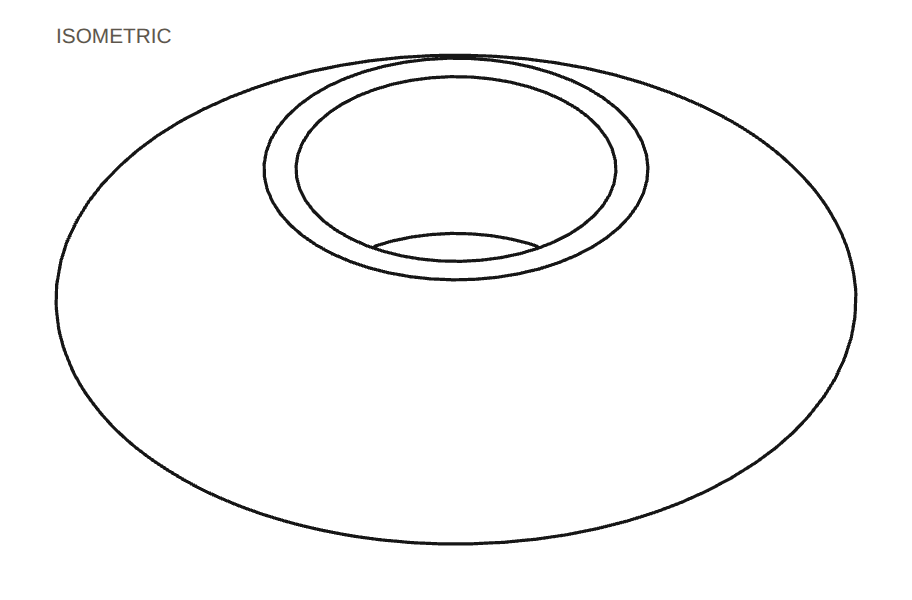
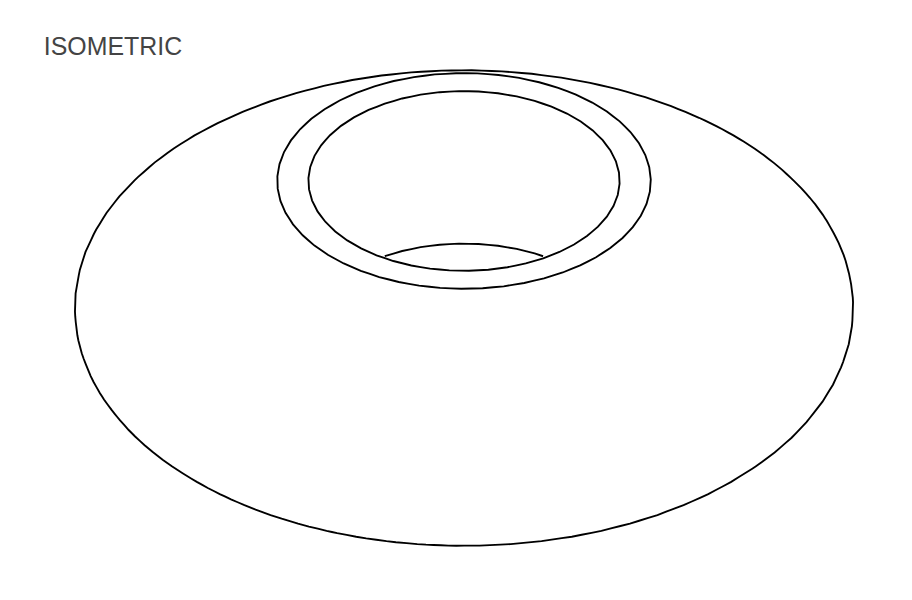
D5 Keep visible outlines when hidden lines are removed
Depth-test each edge from a point nudged toward the camera, and keep a silhouette that sits on the view outline. The cone front and side stay closed, including the bottom line and the rim.

diff --git a/js/drawing/geometry.js b/js/drawing/geometry.js
@@ -188,7 +188,7 @@ function analyticGenerators(model, frame) {
         a: add(add(fit.origin, mul(fit.axis, minAlong)), offset),
         b: add(add(fit.origin, mul(fit.axis, maxAlong)), offset),
         tris: [],
-        kind: 'silhouette',
+        kind: 'generator',
       });
     }
   }
@@ -210,7 +210,10 @@ function boundaryAndSilhouette(model, eye) {
         const agree = found.normal[0] * normal[0] + found.normal[1] * normal[1] + found.normal[2] * normal[2];
         const facing = (found.normal[0] * eye[0] + found.normal[1] * eye[1] + found.normal[2] * eye[2])
           * (normal[0] * eye[0] + normal[1] * eye[1] + normal[2] * eye[2]);
-        if (agree > 0.96 && facing > 0) found.drop = true;
+        if (facing < 0) {
+          found.kind = 'silhouette';
+          found.drop = false;
+        } else if (agree > 0.96 && facing > 0) found.drop = true;
       }
       return;
     }
@@ -257,7 +260,7 @@ function boundaryAndSilhouette(model, eye) {
       addSegment(a, b, entry.tris, silhouette && !boundary ? 'silhouette' : 'edge', normal, face.triIds);
     }
   }
-  return [...merged.values()].filter((segment) => !segment.drop);
+  return [...merged.values()];
 }
 
 function quantKey(p) {
@@ -291,6 +294,65 @@ function subdivide(segment, maxLen) {
     });
   }
   return pieces;
+}
+
+function onOutline(piece, frame, hull) {
+  if (hull.length < 3) return false;
+  const a = project2(piece.a, frame);
+  const b = project2(piece.b, frame);
+  const mid = [(a[0] + b[0]) / 2, (a[1] + b[1]) / 2];
+  return distToHull(a, hull) < 0.55 && distToHull(b, hull) < 0.55 && distToHull(mid, hull) < 0.55;
+}
+
+function project2(point, frame) {
+  return [
+    point[0] * frame.right[0] + point[1] * frame.right[1] + point[2] * frame.right[2],
+    point[0] * frame.up[0] + point[1] * frame.up[1] + point[2] * frame.up[2],
+  ];
+}
+
+function convexHull(points) {
+  const unique = [];
+  const seen = new Set();
+  for (const point of points) {
+    const key = `${Math.round(point[0] * 20)},${Math.round(point[1] * 20)}`;
+    if (seen.has(key)) continue;
+    seen.add(key);
+    unique.push(point);
+  }
+  unique.sort((a, b) => a[0] - b[0] || a[1] - b[1]);
+  if (unique.length < 3) return unique;
+  const turn = (o, a, b) => (a[0] - o[0]) * (b[1] - o[1]) - (a[1] - o[1]) * (b[0] - o[0]);
+  const lower = [];
+  for (const point of unique) {
+    while (lower.length >= 2 && turn(lower[lower.length - 2], lower[lower.length - 1], point) <= 0) lower.pop();
+    lower.push(point);
+  }
+  const upper = [];
+  for (let i = unique.length - 1; i >= 0; i -= 1) {
+    const point = unique[i];
+    while (upper.length >= 2 && turn(upper[upper.length - 2], upper[upper.length - 1], point) <= 0) upper.pop();
+    upper.push(point);
+  }
+  lower.pop();
+  upper.pop();
+  return lower.concat(upper);
+}
+
+function distToHull(point, hull) {
+  let best = Infinity;
+  for (let i = 0; i < hull.length; i += 1) {
+    best = Math.min(best, distToSeg(point, hull[i], hull[(i + 1) % hull.length]));
+  }
+  return best;
+}
+
+function distToSeg(point, a, b) {
+  const dx = b[0] - a[0];
+  const dy = b[1] - a[1];
+  const len = dx * dx + dy * dy || 1;
+  const t = Math.max(0, Math.min(1, ((point[0] - a[0]) * dx + (point[1] - a[1]) * dy) / len));
+  return Math.hypot(point[0] - (a[0] + dx * t), point[1] - (a[1] + dy * t));
 }
 
 function projectFrame(model, frame) {
@@ -353,9 +415,12 @@ function projectFrame(model, frame) {
   }
 
   function hiddenAt(point, ignore) {
+    // Nudge the sample toward the camera so an edge lying on its own
+    // surface is not rejected by that surface.
+    const bias = 1.6;
     const x = dot(point, frame.right);
     const y = dot(point, frame.up);
-    const depth = dot(point, frame.eye);
+    const depth = dot(point, frame.eye) + bias;
     const list = grid.get(`${Math.floor(x / cell)}:${Math.floor(y / cell)}`);
     if (!list) return false;
     for (const id of list) {
@@ -370,13 +435,16 @@ function projectFrame(model, frame) {
     return false;
   }
 
-  const raw = boundaryAndSilhouette(model, frame.eye);
+  const all = boundaryAndSilhouette(model, frame.eye);
+  const raw = all.filter((segment) => !segment.drop);
   for (const segment of analyticGenerators(model, frame)) raw.push(segment);
+  const outline = convexHull(raw.flatMap((segment) => [project2(segment.a, frame), project2(segment.b, frame)]));
   const pieces = [];
   const maxLen = clip ? Math.max(0.7, span / 90) : Math.max(1.5, span / 45);
   for (const segment of raw) {
     for (const piece of subdivide(segment, maxLen)) {
-      const hidden = frame.hidden ? segmentHidden(piece, hiddenAt) : false;
+      let hidden = frame.hidden ? segmentHidden(piece, hiddenAt) : false;
+      if (hidden && piece.kind === 'silhouette' && onOutline(piece, frame, outline)) hidden = false;
       if (hidden && (clip || !frame.hidden)) continue;
       const ax = dot(piece.a, frame.right) - extent.midX;
       const ay = dot(piece.a, frame.up) - extent.midY;
@@ -386,23 +454,20 @@ function projectFrame(model, frame) {
       pieces.push({ a: [ax, ay], b: [bx, by], hidden, kind: piece.kind });
     }
   }
-  let paths = chainPaths(pieces).filter((path) => pathLength(path) >= 0.9);
+  let paths = chainPaths(pieces).filter((path) => pathLength(path) >= 0.9 && !strayLoop(path));
+  paths = dropCoveredTicks(paths);
   if (!frame.hidden) paths = paths.filter((path) => !path.hidden);
   return { extent, paths, span };
 }
 
 function segmentHidden(piece, hiddenAt) {
   const ignore = piece.ignore || piece.tris || [];
-  let hiddenSamples = 0;
-  for (const t of [0.25, 0.5, 0.75]) {
-    const point = [
-      piece.a[0] + (piece.b[0] - piece.a[0]) * t,
-      piece.a[1] + (piece.b[1] - piece.a[1]) * t,
-      piece.a[2] + (piece.b[2] - piece.a[2]) * t,
-    ];
-    if (hiddenAt(point, ignore)) hiddenSamples += 1;
-  }
-  return hiddenSamples >= 2;
+  const point = [
+    (piece.a[0] + piece.b[0]) / 2,
+    (piece.a[1] + piece.b[1]) / 2,
+    (piece.a[2] + piece.b[2]) / 2,
+  ];
+  return hiddenAt(point, ignore);
 }
 
 function pathLength(path) {
@@ -414,6 +479,29 @@ function pathLength(path) {
     );
   }
   return total;
+}
+
+function strayLoop(path) {
+  const first = path.points[0];
+  const last = path.points[path.points.length - 1];
+  if (Math.hypot(first[0] - last[0], first[1] - last[1]) > 0.25) return false;
+  return pathLength(path) < 2.2;
+}
+
+function dropCoveredTicks(paths) {
+  return paths.filter((path) => {
+    if (pathLength(path) >= 2.4) return true;
+    const others = paths.filter((other) => other !== path && pathLength(other) >= 2.4);
+    return !path.points.every((point) => others.some((other) => pointNearPath(point, other) < 0.4));
+  });
+}
+
+function pointNearPath(point, path) {
+  let best = Infinity;
+  for (let i = 1; i < path.points.length; i += 1) {
+    best = Math.min(best, distToSeg(point, path.points[i - 1], path.points[i]));
+  }
+  return best;
 }
 
 function pointInTri(px, py, ax, ay, bx, by, cx, cy) {
@@ -484,16 +572,38 @@ function walkChains(pieces) {
     const points = [];
     let current = startNode;
     let previous = cameFrom;
-    while (current.edges.length === 2) {
-      const next = current.edges.find((item) => item !== previous && !item.used);
-      if (!next) break;
-      next.used = true;
-      const other = next.a === current ? next.b : next.a;
+    while (true) {
+      const arrived = previous.a === current ? previous.b : previous.a;
+      const travel = unit2(current.p[0] - arrived.p[0], current.p[1] - arrived.p[1]);
+      const open = current.edges.filter((item) => item !== previous && !item.used);
+      let best = null;
+      if (open.length === 1) {
+        best = open[0];
+      } else {
+        let bestAlign = 0.9;
+        for (const item of open) {
+          const other = item.a === current ? item.b : item.a;
+          const onward = unit2(other.p[0] - current.p[0], other.p[1] - current.p[1]);
+          const align = travel[0] * onward[0] + travel[1] * onward[1];
+          if (align > bestAlign) {
+            bestAlign = align;
+            best = item;
+          }
+        }
+      }
+      if (!best) break;
+      best.used = true;
+      const other = best.a === current ? best.b : best.a;
       points.push(other.p);
-      previous = next;
+      previous = best;
       current = other;
     }
     return points;
+  }
+
+  function unit2(x, y) {
+    const len = Math.hypot(x, y) || 1;
+    return [x / len, y / len];
   }
 }
 
